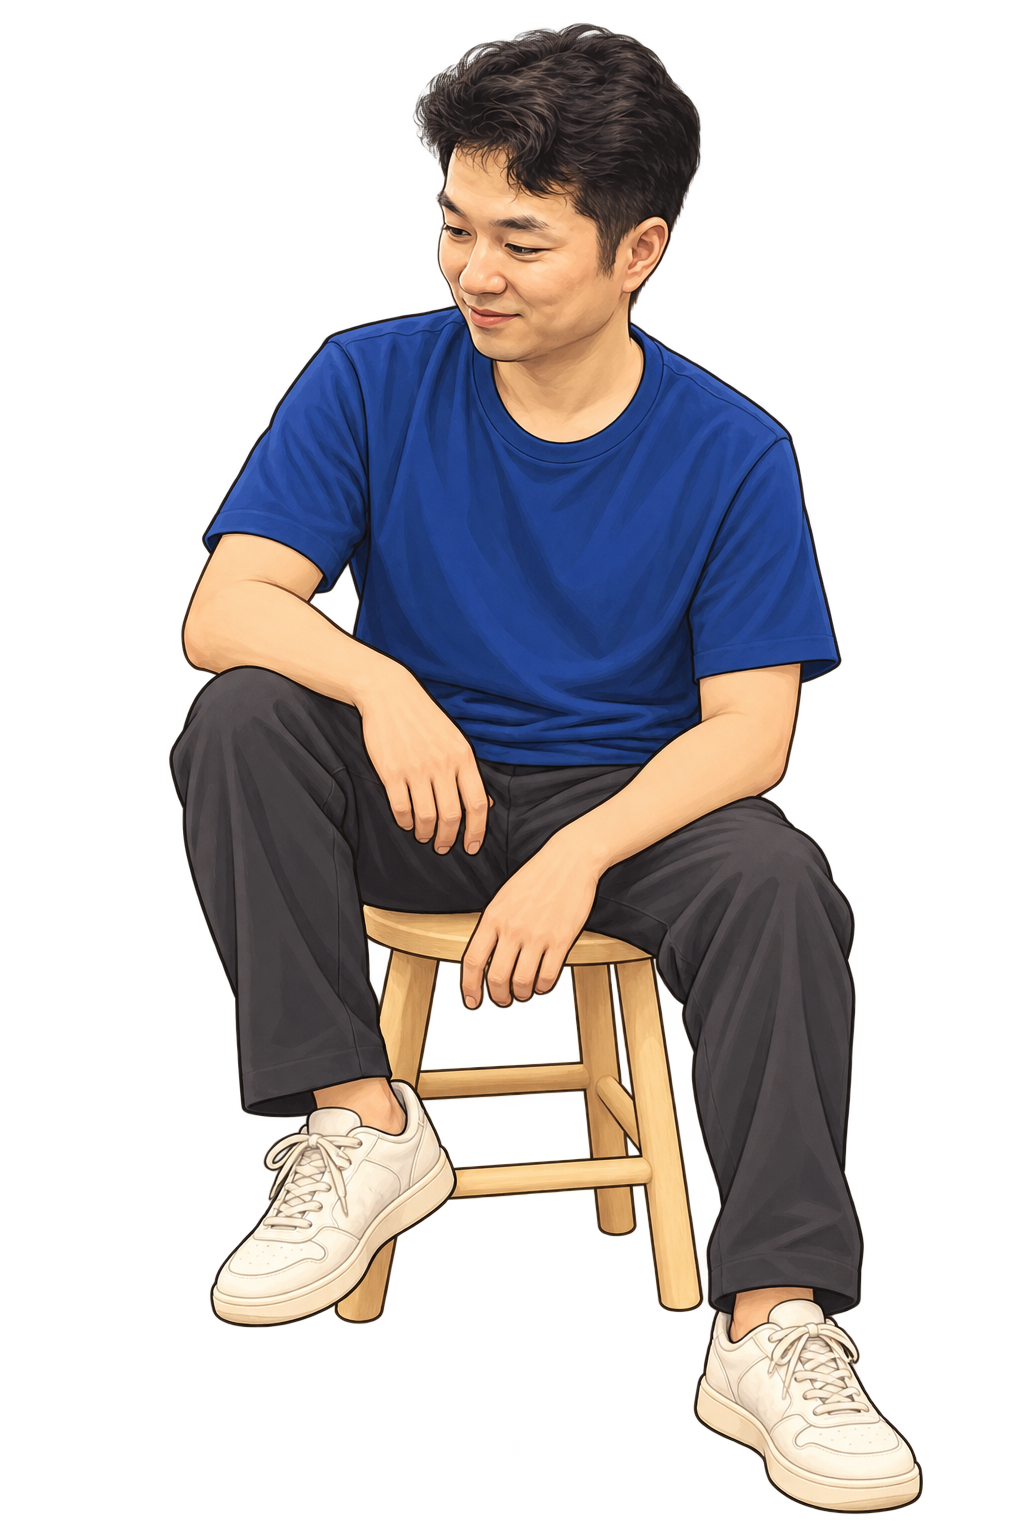
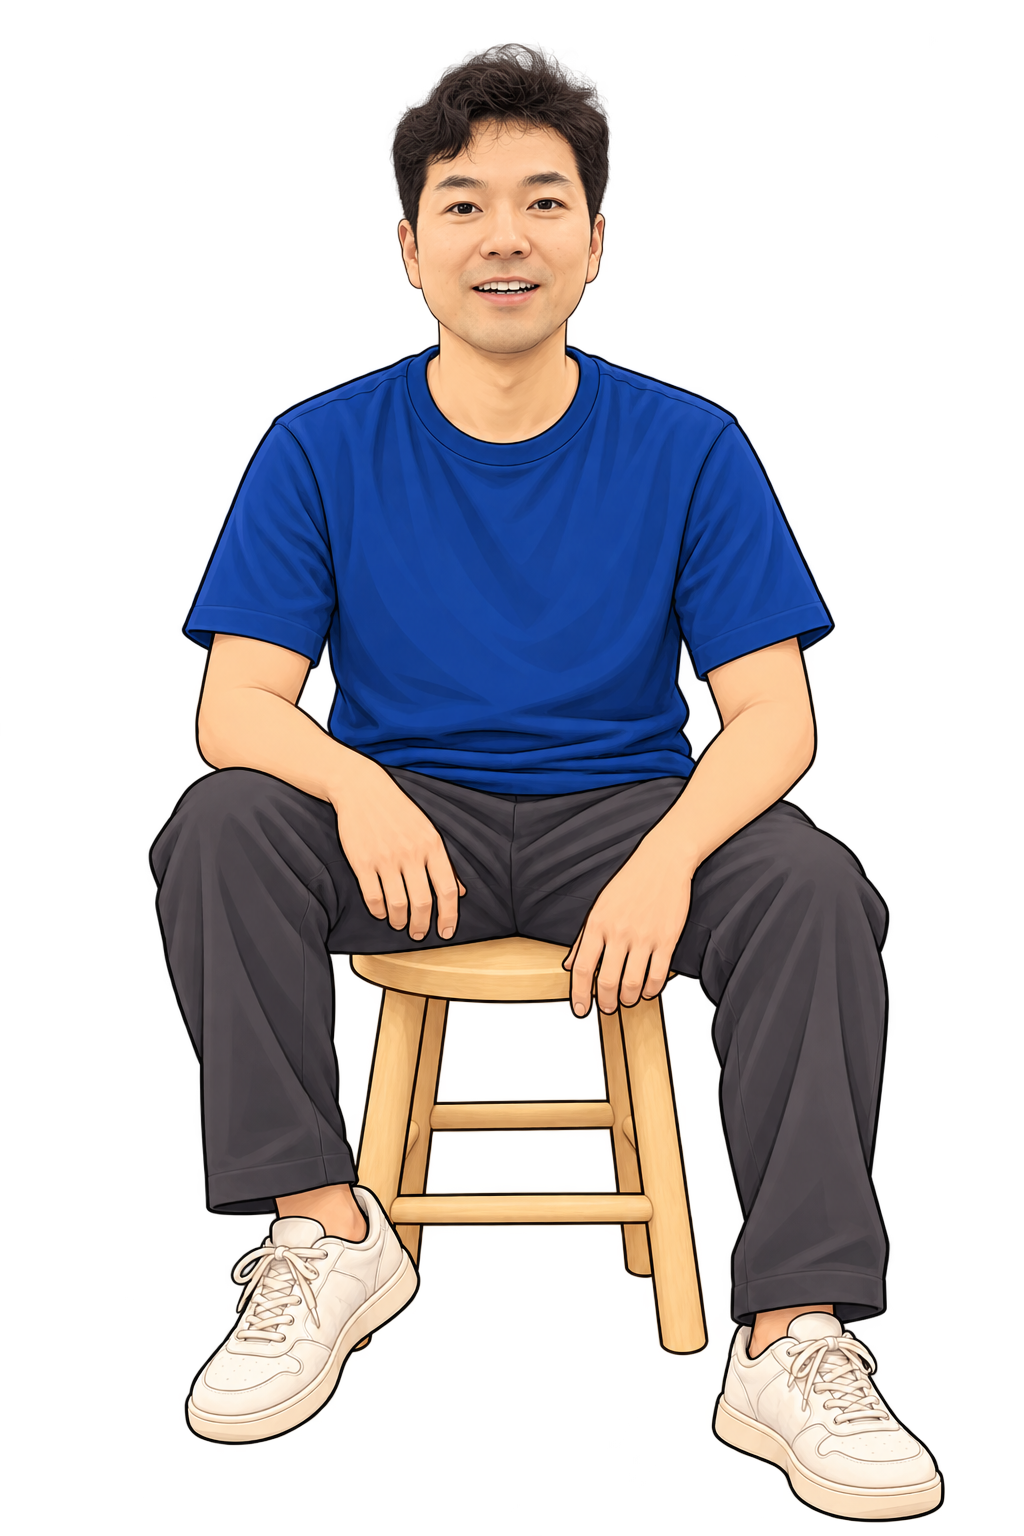
Update homepage portrait and right-side layout (#2)

diff --git a/docs/prototypes/homepage/prototype-home.html b/docs/prototypes/homepage/prototype-home.html
@@ -1,3 +1,13 @@
 <!doctype html>
 <!-- prototype-home.md -->
-<html lang="zh-CN"><head><meta charset="utf-8"><meta name="viewport" content="width=device-width,initial-scale=1"><title>首页预览</title><script src="../manifest.js"></script><script src="../app-identity.js"></script><link rel="stylesheet" href="../_shared/site.css"><style>.ap-intro .ap-visitor-preview{margin-top:18px;font-size:12px;min-height:22px}.ap-visitor-preview span{color:var(--ink);font-variant-numeric:tabular-nums}</style></head><body><div class="ap-site"><div data-shared-block="nav"></div><main><section class="ap-hero" aria-labelledby="homeTitle"><div class="ap-scene"><div class="ap-floor" aria-hidden="true"></div><img class="ap-person" src="../../../assets/aloong-cartoon.png" width="260" height="390" alt="Aloong 穿蓝色 T 恤坐在木凳上的卡通形象"><button class="golden-trigger" id="goldenTrigger" type="button" aria-label="和金毛打招呼：鼠标靠近，或按住空格" aria-pressed="false"><span class="golden-mascot" id="goldenMascot" data-drawing="false"><img class="golden-idle" id="goldenIdle" src="../../../assets/golden-wag/idle.png" width="160" height="160" alt="坐在 Aloong 身旁的金毛"><canvas class="golden-canvas" id="goldenCanvas" width="320" height="320" aria-hidden="true" data-mode="loading"></canvas></span></button></div><div class="ap-intro"><h1 id="homeTitle">Hi, I'm Aloong.</h1><p>把好奇心变成作品，<br>记录技术、创造和生活里的小发现。</p><p class="ap-visitor-preview" aria-live="polite">你是第 <span>1,024</span> 位访客</p></div><span id="goldenStatus" hidden></span></section><section class="ap-work" id="apps"><h2 class="ap-section-title">/* Apps */</h2><div class="ap-grid"><article class="ap-project"><a class="ap-art ap-art-transfer" href="https://transfer.aloongplanet.com/" target="_blank" rel="noreferrer" aria-label="查看 Transfer 官网"><img class="ap-project-shot" src="../../../assets/apps/transfer-main-light.jpg" width="1100" height="720" alt="Transfer 白色主题主界面：演示设备、聊天记录与文件传输" loading="lazy"></a><div class="ap-project-info"><div><h3>Transfer</h3><p>在局域网中传文件、发文字，<br>让电脑之间的分享像聊天一样简单。</p><a class="ap-link ap-project-visit" href="https://transfer.aloongplanet.com/" target="_blank" rel="noreferrer">访问 Transfer 官网</a></div></div></article><article class="ap-project"><a class="ap-art" href="https://agentshed.aloongplanet.com/" target="_blank" rel="noreferrer" aria-label="查看 Agentshed 官网"><img class="ap-project-shot" src="../../../assets/apps/agentshed-main-90days.png" width="2200" height="1440" alt="Agentshed 主界面：Agents 总览与近 90 天 Token 用量趋势" loading="lazy"></a><div class="ap-project-info"><div><h3>Agentshed</h3><p>一处管理 coding agent 的项目、skills 与 MCP，<br>看清 Token 用量，回顾开发会话。</p><a class="ap-link ap-project-visit" href="https://agentshed.aloongplanet.com/" target="_blank" rel="noreferrer">访问 Agentshed 官网</a></div></div></article></div></section></main><footer class="ap-footer" id="about"><h2>保持好奇，做点有意思的东西。</h2><p>这里是 Aloong 的个人星球。<br>分享我做的作品，也记录一路上的想法。</p><a class="ap-link" href="prototype-blog.html" data-goto="homepage/blog" data-goto-href="prototype-blog.html">读我的 Blog</a><div class="ap-bottom"><span>aloong planet</span><span>作品 · 记录 · 日常</span></div></footer></div><script src="../_shared/navigation.js"></script><script>document.addEventListener('click',e=>{const el=e.target.closest('[data-goto]');if(!el)return;e.preventDefault();if(window.parent!==window)parent.postMessage({type:'proto-nav',target:el.dataset.goto},'*');else location.href=el.dataset.gotoHref;});</script><script src="../../../assets/golden-interaction.js"></script></body></html>
+<html lang="zh-CN"><head><meta charset="utf-8"><meta name="viewport" content="width=device-width,initial-scale=1"><title>首页预览</title><script src="../manifest.js"></script><script src="../app-identity.js"></script><link rel="stylesheet" href="../_shared/site.css"><style>.ap-intro .ap-visitor-preview{margin-top:18px;font-size:12px;min-height:22px}.ap-visitor-preview span{color:var(--ink);font-variant-numeric:tabular-nums}
+.ap-hero{min-height:720px}
+.ap-hero-profile .ap-scene{top:38%}
+.ap-hero-profile .golden-trigger{left:32px}
+.ap-hero-reserved{position:absolute;inset:0 auto 0 0;width:33.333333%}
+.ap-hero-profile{position:absolute;inset:0 0 0 40%}
+.ap-hero-profile .ap-intro{left:50%;transform:translateX(-50%);width:max-content;max-width:100%;text-align:center}
+@media(min-width:701px) and (max-width:960px){.ap-hero-profile .ap-scene{transform:translate(-50%,-50%) scale(.9)}}
+@media(max-width:700px){.ap-hero{min-height:0}.ap-hero-profile .ap-scene{top:32%}.ap-hero-reserved{display:none}.ap-hero-profile{inset:0}.ap-hero-profile .ap-intro h1{font-size:clamp(34px,10vw,45px)}}
+@media(max-width:380px){.ap-hero-profile .ap-scene{transform:translate(-50%,-50%) scale(.64)}}
+</style></head><body><div class="ap-site"><div data-shared-block="nav"></div><main><section class="ap-hero" aria-labelledby="homeTitle"><div class="ap-hero-reserved" aria-hidden="true"></div><div class="ap-hero-profile"><div class="ap-scene"><div class="ap-floor" aria-hidden="true"></div><img class="ap-person" src="../../../assets/aloong-cartoon.png" width="260" height="390" alt="Aloong 穿蓝色 T 恤坐在木凳上的卡通形象"><button class="golden-trigger" id="goldenTrigger" type="button" aria-label="和金毛打招呼：鼠标靠近，或按住空格" aria-pressed="false"><span class="golden-mascot" id="goldenMascot" data-drawing="false"><img class="golden-idle" id="goldenIdle" src="../../../assets/golden-wag/idle.png" width="160" height="160" alt="坐在 Aloong 身旁的金毛"><canvas class="golden-canvas" id="goldenCanvas" width="320" height="320" aria-hidden="true" data-mode="loading"></canvas></span></button></div><div class="ap-intro"><h1 id="homeTitle">Hi, I'm Aloong.</h1><p>把好奇心变成作品，<br>记录技术、创造和生活里的小发现。</p><p class="ap-visitor-preview" aria-live="polite">你是第 <span>1,024</span> 位访客</p></div><span id="goldenStatus" hidden></span></div></section><section class="ap-work" id="apps"><h2 class="ap-section-title">/* Apps */</h2><div class="ap-grid"><article class="ap-project"><a class="ap-art ap-art-transfer" href="https://transfer.aloongplanet.com/" target="_blank" rel="noreferrer" aria-label="查看 Transfer 官网"><img class="ap-project-shot" src="../../../assets/apps/transfer-main-light.jpg" width="1100" height="720" alt="Transfer 白色主题主界面：演示设备、聊天记录与文件传输" loading="lazy"></a><div class="ap-project-info"><div><h3>Transfer</h3><p>在局域网中传文件、发文字，<br>让电脑之间的分享像聊天一样简单。</p><a class="ap-link ap-project-visit" href="https://transfer.aloongplanet.com/" target="_blank" rel="noreferrer">访问 Transfer 官网</a></div></div></article><article class="ap-project"><a class="ap-art" href="https://agentshed.aloongplanet.com/" target="_blank" rel="noreferrer" aria-label="查看 Agentshed 官网"><img class="ap-project-shot" src="../../../assets/apps/agentshed-main-90days.png" width="2200" height="1440" alt="Agentshed 主界面：Agents 总览与近 90 天 Token 用量趋势" loading="lazy"></a><div class="ap-project-info"><div><h3>Agentshed</h3><p>一处管理 coding agent 的项目、skills 与 MCP，<br>看清 Token 用量，回顾开发会话。</p><a class="ap-link ap-project-visit" href="https://agentshed.aloongplanet.com/" target="_blank" rel="noreferrer">访问 Agentshed 官网</a></div></div></article></div></section></main><footer class="ap-footer" id="about"><h2>保持好奇，做点有意思的东西。</h2><p>这里是 Aloong 的个人星球。<br>分享我做的作品，也记录一路上的想法。</p><a class="ap-link" href="prototype-blog.html" data-goto="homepage/blog" data-goto-href="prototype-blog.html">读我的 Blog</a><div class="ap-bottom"><span>aloong planet</span><span>作品 · 记录 · 日常</span></div></footer></div><script src="../_shared/navigation.js"></script><script>document.addEventListener('click',e=>{const el=e.target.closest('[data-goto]');if(!el)return;e.preventDefault();if(window.parent!==window)parent.postMessage({type:'proto-nav',target:el.dataset.goto},'*');else location.href=el.dataset.gotoHref;});</script><script src="../../../assets/golden-interaction.js"></script></body></html>

diff --git a/public/site.css b/public/site.css
@@ -13,17 +13,18 @@ a:focus-visible, button:focus-visible { outline:2px solid var(--accent); outline
 .ap-nav a:hover, .ap-nav a[aria-current=page] { color:var(--ink); }
 .ap-nav a[aria-current=page] { text-decoration:underline; text-underline-offset:6px; }
 .ap-social { justify-self:end; font-size:12px; border-bottom:1px solid var(--ink); padding:7px 0; }
-.ap-hero { height:calc(100svh - 76px); min-height:600px; max-height:950px; position:relative; margin:0 32px; }
-.ap-scene { width:470px; height:430px; position:absolute; left:50%; top:43%; transform:translate(-50%,-50%); }
+.ap-hero { height:calc(100svh - 76px); min-height:720px; max-height:950px; position:relative; margin:0 32px; }
+.ap-hero-profile { position:absolute; inset:0 0 0 40%; }
+.ap-scene { width:470px; height:430px; position:absolute; left:50%; top:38%; transform:translate(-50%,-50%); }
 .ap-person { position:absolute; height:390px; width:260px; object-fit:contain; left:175px; bottom:0; }
 .ap-floor { position:absolute; bottom:2px; left:40px; width:380px; height:18px; border-radius:50%; background:#28261c14; filter:blur(12px); }
-.golden-trigger { position:absolute; left:2px; bottom:6px; width:210px; height:210px; padding:25px; display:grid; place-items:center; border:0; background:transparent; border-radius:50%; cursor:pointer; touch-action:none; outline-offset:-2px; }
+.golden-trigger { position:absolute; left:32px; bottom:6px; width:210px; height:210px; padding:25px; display:grid; place-items:center; border:0; background:transparent; border-radius:50%; cursor:pointer; touch-action:none; outline-offset:-2px; }
 .golden-mascot { position:relative; display:block; width:160px; height:160px; pointer-events:none; }
 .golden-idle, .golden-canvas { position:absolute; inset:0; width:160px; height:160px; object-fit:contain; }
 .golden-canvas { opacity:0; }
 .golden-mascot[data-drawing=true] .golden-canvas { opacity:1; }
 .golden-mascot[data-drawing=true] .golden-idle { opacity:0; }
-.ap-intro { position:absolute; left:0; bottom:45px; }
+.ap-intro { position:absolute; left:50%; bottom:45px; transform:translateX(-50%); width:max-content; max-width:100%; text-align:center; }
 .ap-intro h1 { font-size:clamp(40px,4vw,64px); letter-spacing:-3px; font-weight:600; line-height:1.02; margin:0 0 17px; }
 .ap-intro p { font-size:14px; line-height:1.8; margin:0; color:var(--muted); }
 .ap-intro .ap-visitor { margin-top:18px; font-size:12px; min-height:22px; font-variant-numeric:tabular-nums; }
@@ -52,18 +53,25 @@ a:focus-visible, button:focus-visible { outline:2px solid var(--accent); outline
 .ap-post h2 { font-size:24px; font-weight:500; letter-spacing:-.6px; margin:0 0 12px; }
 .ap-post p { font-size:13px; color:var(--muted); margin:0; line-height:1.8; }
 .ap-blog-back { margin-top:50px; }
+@media(min-width:701px) and (max-width:960px) {
+ .ap-scene { transform:translate(-50%,-50%) scale(.9); }
+}
 @media(max-width:700px) {
  .ap-header { padding:0 20px; grid-template-columns:1fr auto; height:96px; gap:10px; }
  .ap-brand { font-size:15px; } .ap-brand small { display:none; }
  .ap-nav { grid-row:2; grid-column:1/-1; justify-content:space-between; gap:10px; padding-bottom:15px; }
  .ap-social { grid-column:2; grid-row:1; }
  .ap-hero { margin:0 20px; height:670px; min-height:0; max-height:none; }
- .ap-scene { transform:translate(-50%,-50%) scale(.76); top:37%; }
- .ap-intro { bottom:115px; } .ap-intro h1 { letter-spacing:-2px; font-size:45px; }
+ .ap-hero-profile { inset:0; }
+ .ap-scene { transform:translate(-50%,-50%) scale(.76); top:32%; }
+ .ap-intro { bottom:115px; } .ap-intro h1 { letter-spacing:-2px; font-size:clamp(34px,10vw,45px); }
  .ap-work { padding:60px 20px; } .ap-section-title { margin-bottom:45px; font-size:30px; }
  .ap-grid { grid-template-columns:1fr; gap:48px; }
  .ap-footer { padding:60px 20px 25px; } .ap-bottom { margin-top:60px; }
  .ap-blog { padding:70px 20px; } .ap-blog h1 { letter-spacing:-4px; }
  .ap-post { grid-template-columns:1fr; gap:12px; } .ap-post h2 { font-size:22px; }
+}
+@media(max-width:380px) {
+ .ap-scene { transform:translate(-50%,-50%) scale(.64); }
 }
 @media(prefers-reduced-motion:reduce) { html { scroll-behavior:auto; } .ap-art,.ap-nav a { transition:none; } }

diff --git a/public/index.html b/public/index.html
@@ -16,22 +16,24 @@
   <div data-site-navigation></div>
   <main>
     <section class="ap-hero" aria-labelledby="homeTitle">
-      <div class="ap-scene">
-        <div class="ap-floor" aria-hidden="true"></div>
-        <img class="ap-person" src="/assets/aloong-cartoon.png" width="260" height="390" alt="Aloong 穿蓝色 T 恤坐在木凳上的卡通形象">
-        <button class="golden-trigger" id="goldenTrigger" type="button" aria-label="和金毛打招呼：鼠标靠近，或按住空格" aria-pressed="false">
-          <span class="golden-mascot" id="goldenMascot" data-drawing="false">
-            <img class="golden-idle" id="goldenIdle" src="/assets/golden-wag/idle.png" width="160" height="160" alt="坐在 Aloong 身旁的金毛">
-            <canvas class="golden-canvas" id="goldenCanvas" width="320" height="320" aria-hidden="true" data-mode="loading"></canvas>
-          </span>
-        </button>
+      <div class="ap-hero-profile">
+        <div class="ap-scene">
+          <div class="ap-floor" aria-hidden="true"></div>
+          <img class="ap-person" src="/assets/aloong-cartoon.png" width="260" height="390" alt="Aloong 穿蓝色 T 恤坐在木凳上的卡通形象">
+          <button class="golden-trigger" id="goldenTrigger" type="button" aria-label="和金毛打招呼：鼠标靠近，或按住空格" aria-pressed="false">
+            <span class="golden-mascot" id="goldenMascot" data-drawing="false">
+              <img class="golden-idle" id="goldenIdle" src="/assets/golden-wag/idle.png" width="160" height="160" alt="坐在 Aloong 身旁的金毛">
+              <canvas class="golden-canvas" id="goldenCanvas" width="320" height="320" aria-hidden="true" data-mode="loading"></canvas>
+            </span>
+          </button>
+        </div>
+        <div class="ap-intro">
+          <h1 id="homeTitle">Hi, I'm Aloong.</h1>
+          <p>把好奇心变成作品，<br>记录技术、创造和生活里的小发现。</p>
+          <p class="ap-visitor" data-visitor-counter aria-live="polite" aria-atomic="true"></p>
+        </div>
+        <span id="goldenStatus" hidden></span>
       </div>
-      <div class="ap-intro">
-        <h1 id="homeTitle">Hi, I'm Aloong.</h1>
-        <p>把好奇心变成作品，<br>记录技术、创造和生活里的小发现。</p>
-        <p class="ap-visitor" data-visitor-counter aria-live="polite" aria-atomic="true"></p>
-      </div>
-      <span id="goldenStatus" hidden></span>
     </section>
     <section class="ap-work" id="apps" aria-labelledby="appsTitle">
       <h2 class="ap-section-title" id="appsTitle">/* Apps */</h2>

diff --git a/docs/prototypes/homepage/prototype-home.md b/docs/prototypes/homepage/prototype-home.md
@@ -1,14 +1,15 @@
-## 问题
-卡通人物与原有互动金毛能否在留白首屏形成协调组合，下方双列作品区是否合适？
+## Question
+Does the supplied seated portrait work with the interactive golden retriever on the right side of the homepage, leaving the left third available for future recent blog entries?
 
-## 结构依据
-用户选定 astapable.com 的固定浅色、留白首屏和双列作品结构，要求加入卡通本人和已有金毛互动，以及 Blog 导航。已确认单一语言原型。作品展示统一为 Apps 区域，顶部导航为 Apps / Blog / About。本目录保留设计原型；正式实现位于 public/，工程能力声明位于根目录 capabilities.toml。按项目能力声明，i18n 未启用，该项跳过；theming 未启用，该项跳过。无既有图标模块，使用文字链接。
+## Structural basis
+The user specified the supplied transparent blue-shirt portrait, a right-side portrait and dog group, and a reserved left third for future blog information. The dog sits close beside the portrait; the group is biased toward the right edge while the left third remains clear. The introductory text and illustrative visitor ordinal sit beneath the group to keep that reserved column clear. The existing light homepage, Apps grid, and Apps / Blog / About navigation provide the surrounding context. On narrow screens, the group occupies the full width and stays centered; the empty reserved column is hidden.
 
-## 演示基建
-无页面内演示控制。原型画廊仅用于预览，非设计的一部分，勿实现。
+The supplied PNG is copied without image edits as the shared portrait asset. Its SHA-256 is recorded in the construction verification record. The source attachment is `codex-clipboard-abe933ed-e006-47cc-8157-7c1c8b0f3601.png`.
 
-## 未覆盖维度
-未接入真实博客、CMS、域名或生产部署。作品卡片使用 Transfer 真实界面的白色主题演示数据截图，以及 Agentshed 的近 90 天截图，并链接到各自官网。两张截图按原比例铺满卡片，无外围留边。仅固定浅色和单一语言。人物相似度仍待用户确认。
+Per the project capabilities, i18n and theming are disabled; their dictionary and theme-anchor checks are skipped. The page uses text navigation and no icon module.
 
-## Visitor counter preview
-The introductory text is followed by a small anonymous visitor ordinal. The example number 1,024 is illustrative, not a live count. During loading or failure the same line stays visually empty; the homepage remains usable. The counter does not add an icon, button, or new section.
+## Demonstration infrastructure
+There are no in-page demonstration controls. The prototype gallery is review infrastructure, not part of the product. The visitor ordinal 1,024 is illustrative and makes no network request or registration.
+
+## Uncovered dimensions
+The reserved column contains no sample posts or publishing integration. Only fixed light appearance and the existing single language are covered. The app screenshots link to their existing websites. Loading and failure of the live visitor counter are outside this visual preview.

diff --git a/docs/assets/README.md b/docs/assets/README.md
@@ -1,5 +1,5 @@
 # Website assets
 
-Shipping assets are under assets/. sources.json records their origin and SHA256 hashes. Original portrait photographs are not included; the approved transparent illustration and its reusable prompt are retained. The dog sprite manifest assets/golden-wag/config.json records sprite sizes and hashes.
+Shipping assets are under assets/. sources.json records their origin and SHA256 hashes. Original portrait photographs are not included; the user-supplied transparent seated illustration is retained unchanged. portrait-prompt.txt records the earlier illustration prompt and is not the provenance of the current supplied asset. The dog sprite manifest assets/golden-wag/config.json records sprite sizes and hashes.
 
 Transfer is a synthetic white-theme product screenshot; Agentshed is the supplied 90-day view. Earlier screenshots and duplicate sprites remain in the original local workspace. The isolated Transfer fixture is not a production data source.

diff --git a/docs/features/homepage.md b/docs/features/homepage.md
@@ -1,0 +1,16 @@
+# Homepage
+
+## Overview
+The homepage introduces Aloong and showcases personal apps in a light layout.
+
+## Capabilities
+- See the seated blue-shirt portrait and golden retriever together on the right of a wide screen, with the introduction and visitor number beneath them.
+- Move the pointer close to the dog, hold it on a touch screen, or focus it and hold Space to greet it.
+- View a centered portrait and dog group on a small screen without a reserved side column.
+- Open the Transfer and Agentshed websites from their screenshots or text links.
+- Navigate to Apps, Blog, and About from the top menu.
+
+## Boundaries
+- The left third of the wide-screen introduction area is empty; it does not display recent articles.
+- Blog entries are labeled layout examples, not published articles.
+- The visitor number stays hidden when counting is unavailable.

diff --git a/README.md b/README.md
@@ -1,6 +1,6 @@
 # Aloong Planet
 
-A personal homepage with Apps, a Blog layout, an interactive golden retriever, and an anonymous visitor ordinal. The Blog currently contains clearly labeled layout examples, not real articles. Portrait refinement remains paused.
+A personal homepage with Apps, a Blog layout, an interactive golden retriever, and an anonymous visitor ordinal. The Blog currently contains clearly labeled layout examples, not real articles. The supplied seated portrait and interactive dog sit together on the right, with the introduction beneath them. The left third stays clear; recent blog entries are not connected. Small screens use a centered, full-width group.
 
 ## Develop and verify
 

diff --git a/docs/features/README.md b/docs/features/README.md
@@ -4,4 +4,5 @@ This directory describes behavior available in the current website. It is a user
 
 | Feature | Description |
 |---|---|
+| [Homepage](homepage.md) | Portrait, interactive dog and app showcase. |
 | [Your visitor number](visitor-counter.md) | A stable anonymous ordinal that survives refreshes. |
